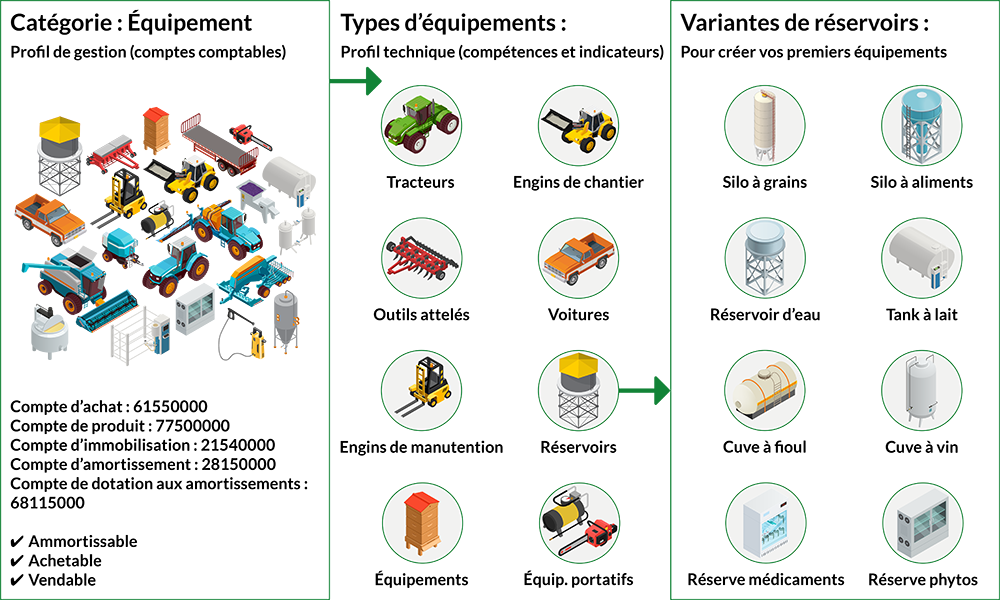
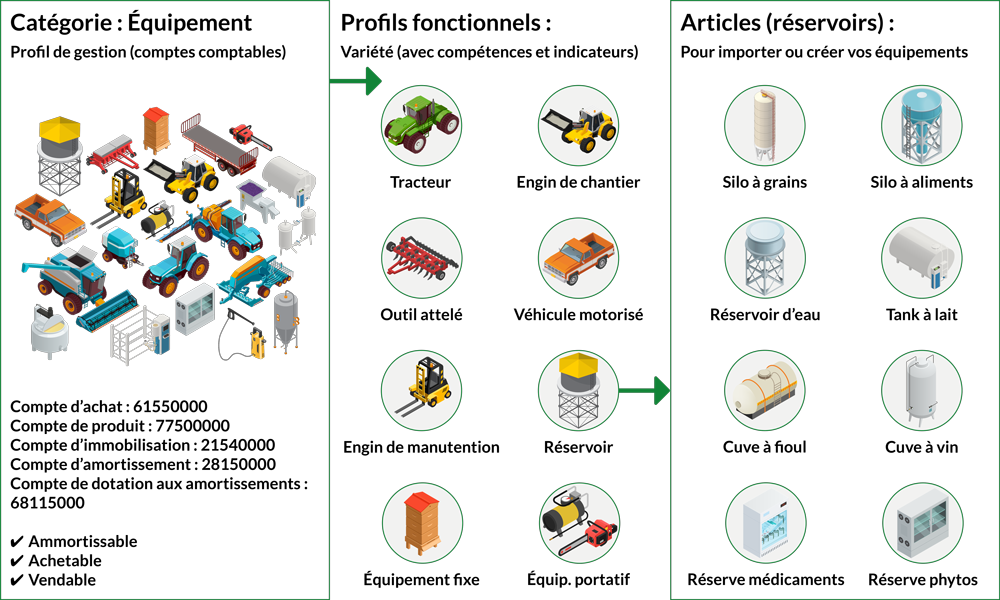
Màj 4.1 (wip)

diff --git a/content/fr/chapitre8.html b/content/fr/chapitre8.html
@@ -198,7 +198,7 @@
                      </div>
                      <ul style="display: block;">
                         <div class="bloc">
-                           <li><a href="#categories" target="_self">Catégories, types et variantes</a></li>
+                           <li><a href="#categories" target="_self">Catégories, profils et articles</a></li>
 						   <li><a href="#conditionnement" target="_self">Unités et conditionnements</a></li>
                            <li><a href="#stocks" target="_self">Gestion des stocks et création de matières</a></li>
                            <li><a href="#expeditions" target="_self">Expéditions, livraisons et facturation</a></li>
@@ -319,12 +319,12 @@
                   <div class="divTableCellMenu2">
                      <form>
                         <select name="ListeUrl" SIZE="1" onChange="ChangeUrl(this.form)" style="width:210px">
-                           <option selected value="">Variantes et produits</option>
-						   <option value="#categories">- Appréhender la notion de variante</option>
-                           <option value="#nelle-variante">- Créer de nouvelles variantes</option>
+                           <option selected value="">Articles et produits</option>
+						   <option value="#categories">- Appréhender la notion d'article</option>
+                           <option value="#nelle-variante">- Créer de nouveaux articles</option>
 						   <option value="#phyto">- Importer des produits phytosanitaires</option>
                            <option value="#article">- Paramétrer de nouveaux articles</option>
-						   <option value="#coop">- Créer une variante pour facture d'apport</option>
+						   <option value="#coop">- Créer un article pour facture d'apport</option>
                         </select>
                      </form>
                   </div>
@@ -334,7 +334,7 @@
                            <option selected value="">Équipements</option>
 						   <option value="#equipements">- Recenser vos machines et outils</option>
                            <option value="#nel-equipement">- Créer un nouvel équipement</option>
-                           <option value="#var-equipt">- Définir une variante d'équipement</option>
+                           <option value="#var-equipt">- Définir un équipement</option>
                         </select>
                      </form>
                   </div>
@@ -401,17 +401,17 @@
                   <option value="#coutusage">- Créer un catalogue des coûts d'usage</option>
 				  <option value="#coutequipier">- Affecter un coût horaire à un équipier</option>
                </optgroup>
-               <optgroup label="Variantes et produits">
-                  <option value="#categories">- Appréhender la notion de variante</option>
-                  <option value="#nelle-variante">- Créer de nouvelles variantes</option>
+               <optgroup label="Articles et produits">
+                  <option value="#categories">- Appréhender la notion d'article</option>
+                  <option value="#nelle-variante">- Créer de nouveaux articles</option>
 				  <option value="#phyto">- Importer des produits phytosanitaires</option>
                   <option value="#article">- Paramétrer de nouveaux articles</option>
-				  <option value="#coop">- Créer une variante pour facture d'apport</option>
+				  <option value="#coop">- Créer un article pour facture d'apport</option>
                </optgroup>
                <optgroup label="Équipements">
                   <option value="#equipements">- Recenser vos machines et outils</option>
                   <option value="#nel-equipement">- Créer un nouvel équipement</option>
-                  <option value="#var-equipt">- Définir une variante d'équipement</option>
+                  <option value="#var-equipt">- Définir un équipement</option>
                </optgroup>
                <optgroup label="Tiers et équipiers">
                   <option value="#contact">- Créer un nouveau contact</option>
@@ -450,18 +450,18 @@
                </div>
                <div class="divTableRow">
                   <div class="divTableCellPDF2">- Créer un catalogue des coûts d'usage</div>
-                  <div class="divTableCellPDF2">- Appréhender la notion de variante</div>
+                  <div class="divTableCellPDF2">- Appréhender la notion d'article</div>
 				  <div class="divTableCellPDF4">- Recenser vos machines et outils</div>
                </div>
                <div class="divTableRow">
                   <div class="divTableCellPDF2">- Affecter un coût horaire à un équipier</div>
-                  <div class="divTableCellPDF2">- Créer de nouvelles variantes</div>
+                  <div class="divTableCellPDF2">- Créer de nouveaux articles</div>
 				  <div class="divTableCellPDF4">- Créer un nouvel équipement</div>
                </div>
                <div class="divTableRow">
 				  <div class="divTableCellPDF5">&nbsp;</div>
                   <div class="divTableCellPDF2">- Importer des produits phytosanitaires</div>
-                  <div class="divTableCellPDF4">- Définir une variante d'équipement</div>
+                  <div class="divTableCellPDF4">- Définir un équipement</div>
                </div>
                <div class="divTableRow">
 				  <div class="divTableCellPDF5">&nbsp;</div>
@@ -470,7 +470,7 @@
                </div>
 			   <div class="divTableRow">
 				  <div class="divTableCellPDF5">&nbsp;</div>
-                  <div class="divTableCellPDF2">- Créer une variante pour facture d'apport</div>
+                  <div class="divTableCellPDF2">- Créer un article pour facture d'apport</div>
                   <div class="divTableCellPDF5">&nbsp;</div>
                </div>
             </div>
@@ -581,11 +581,11 @@
       </div>
       <h6>Guide de prise en main • Stocks, tiers et RH • Notions de base</h6>
       <a class="slice-process" id="categories"></a>
-      <h2 class="texte aerateur">a - Catégories, types et variantes</h2>
+      <h2 class="texte aerateur">a - Catégories, types et articles</h2>
       <p class="texte">Tous les éléments stockés dans <strong>Eky</strong>agri sont associés à une catégorie comptable qui est un profil de gestion utilisé pour enregistrer les écritures en comptabilité.</p>
-      <p class="texte">Ces éléments sont également rattachés à des types &#40;familles&#41; identifiés par un profil technique comme par exemple un service, un équipement, un produit phytosanitaire.</p>
-      <p class="texte">La variante correspond à un article de catalogue appartenant simultanément à une catégorie comptable &#40;profil de gestion&#41; et à un type de produit &#40;profil technique&#41;.</p>
-      <p class="texte">À la création du stock initial ou lors d'un achat, la variante est finalement enregistrée sous la forme d'un produit en stock avec la quantité spécifiée.</p>
+      <p class="texte">Ces éléments sont également rattachés à des profils fonctionnels identifiés par des caractéristiques techniques comme par exemple un service, un équipement, un produit phytosanitaire.</p>
+      <p class="texte">Un article correspond à un élément de catalogue appartenant simultanément à une catégorie comptable &#40;profil de gestion&#41; et à un profil fonctionnel &#40;profil technique&#41;.</p>
+      <p class="texte">À la création du stock initial ou lors d'une réception, l'article est finalement enregistré dans les stocks sous la forme d'un produit associé à un conditionnement avec la quantité spécifiée.</p>
       <div class="affichage-large"></div>
       <div class="affichage-mobile">
          <p align="center">
@@ -599,7 +599,7 @@
             <p align="center" class="aerateur-haut aerateur-bas"><img src="../images/chapitre8/tableau-produits.png" alt="Schéma produits"></p>
          </div>
       </div>
-      <p class="texte">En complément, on peut associer un prix d'achat ou un prix de vente &#40;ainsi qu'un coût d'usage dans le cas d'un équipement&#41; à chaque variante. Ces informations sont alors répertoriées dans des catalogues de prix spécifiques et disponibles pour enregistrer des commandes, des ventes et des interventions.</p>
+      <p class="texte">En complément, on peut associer un prix d'achat ou un prix de vente &#40;ainsi qu'un coût d'usage dans le cas d'un équipement&#41; à chaque article. Ces informations sont alors répertoriées dans des catalogues de prix spécifiques et disponibles pour enregistrer des commandes, des ventes et des interventions.</p>
       <div class="affichage-large"></div>
       <div class="affichage-mobile">
          <p align="center">
@@ -613,12 +613,12 @@
             <p align="center" class="aerateur-haut aerateur-bas"><img src="../images/chapitre8/schema-catalogues.png" class="contour-img" alt="Schéma catalogues"></p>
          </div>
       </div>
-      <p class="texte aerateur-haut">Dans le schéma suivant, parmi les différentes catégories disponibles dans l'application, on a choisi en exemple celle des équipements qui regroupe plusieurs types d'équipements possédant chacun des caractéristiques différentes.</p>
+      <p class="texte aerateur-haut">Dans le schéma suivant, parmi les différentes catégories disponibles dans l'application, on a choisi en exemple celle des équipements qui regroupe plusieurs profils d'équipements possédant chacun des caractéristiques différentes.</p>
       <p class="texte">Les réservoirs sont capables de stocker du grain, des préparations ou des mélanges &#40;une compétence&#41;. Ils sont associés aux indicateurs fixes ou variables "Capacité de stockage massique nominale" et/ou "Capacité de stockage volumique nominale".</p>
-      <p class="texte">Exemple de paramétrage par défaut pour le type de produit dénommé "Silo à aliments" dans l'application&nbsp;:</p>
+      <p class="texte">Exemple de paramétrage par défaut du profil fonctionnel dénommé "Silo à aliments" dans l'application&nbsp;:</p>
       <p align="center" class="marge"><img class="contour-gris" src="../images/chapitre8/competences.png" alt="Compétences type de produit" data-action="zoom" /></p>
       <p align="center" class="marge"><img class="contour-gris" src="../images/chapitre8/indicateurs.png" alt="Indicateurs type de produit" data-action="zoom" /></p>
-      <p class="texte aerateur-bas">Les différentes variantes de réservoirs disponibles vous permettront enfin de créer vos équipements en stock à partir de la liste figurant à droite du schéma.</p>
+      <p class="texte aerateur-bas">Les différentes familles de réservoirs disponibles vous permettront enfin de créer vos équipements en stock à partir de la liste figurant à droite du schéma.</p>
       <div class="affichage-large"></div>
       <div class="affichage-mobile">
          <p align="center">
@@ -639,11 +639,11 @@
             <img src="../images/commun/attention.svg" width="100" alt="Attention"/>
          </div>
          <div class="info-txt">
-            <span class="titre-advice">Nécessité de créer de nouvelles variantes<br /></span>
-            <p class="texte-advice">Dans la majorité des cas, les variantes prédéfinies et disponibles dans l'application doivent répondre à vos attentes pour constituer vos stocks et réaliser la gestion commerciale &#40;achats et ventes&#41;. Cependant, la <strong>création de nouvelles variantes reste incontournable</strong> au regard du niveau de traçabilité que vous souhaitez obtenir, comme par exemple le calcul des <strong>temps de travaux</strong> et des <strong>coûts horaires</strong> estimatifs affectés aux <strong>équipiers</strong> et/ou aux <strong>équipements</strong>.</p>
+            <span class="titre-advice">Nécessité de créer de nouveaux articles<br /></span>
+            <p class="texte-advice">Dans la majorité des cas, les articles prédéfinis et disponibles dans l'application doivent répondre à vos attentes pour constituer vos stocks et réaliser la gestion commerciale &#40;achats et ventes&#41;. Cependant, la <strong>création de nouveaux articles reste incontournable</strong> au regard du niveau de traçabilité que vous souhaitez obtenir, comme par exemple le calcul des <strong>temps de travaux</strong> et des <strong>coûts horaires</strong> estimatifs affectés aux <strong>équipiers</strong> et/ou aux <strong>équipements</strong>.</p>
          </div>
       </div>
-      <p class="texte">Quelques exemples qui doivent vous amener à créer de nouvelles variantes&nbsp;:</p>
+      <p class="texte">Quelques exemples qui doivent vous amener à créer de nouveaux articles&nbsp;:</p>
       <div class="divTableListe marge">
          <div class="divTableBody">
             <div class="divTableRow">
@@ -675,7 +675,7 @@
             </div>
          </div>
       </div>
-      <h3 align="center" class="texte aerateur procedure">1 – Procédure pour afficher une liste de variantes</h3>
+      <h3 align="center" class="texte aerateur procedure">1 – Procédure pour afficher une liste d'articles</h3>
       <p class="texte">
          Le processus suivant vous guide pour mieux comprendre le système de classement utilisé dans l'application.
       </p>
@@ -3701,12 +3701,12 @@
                   <div class="divTableCellMenu2">
                      <form>
                         <select name="ListeUrl" SIZE="1" onChange="ChangeUrl(this.form)" style="width:210px">
-                           <option selected value="">Variantes et produits</option>
-						   <option value="#categories">- Appréhender la notion de variante</option>
-                           <option value="#nelle-variante">- Créer de nouvelles variantes</option>
+                           <option selected value="">Articles et produits</option>
+						   <option value="#categories">- Appréhender la notion d'article</option>
+                           <option value="#nelle-variante">- Créer de nouveaux articles</option>
 						   <option value="#phyto">- Importer des produits phytosanitaires</option>
                            <option value="#article">- Paramétrer de nouveaux articles</option>
-						   <option value="#coop">- Créer une variante pour facture d'apport</option>
+						   <option value="#coop">- Créer un article pour facture d'apport</option>
                         </select>
                      </form>
                   </div>
@@ -3716,7 +3716,7 @@
                            <option selected value="">Équipements</option>
 						   <option value="#equipements">- Recenser vos machines et outils</option>
                            <option value="#nel-equipement">- Créer un nouvel équipement</option>
-                           <option value="#var-equipt">- Définir une variante d'équipement</option>
+                           <option value="#var-equipt">- Définir un équipement</option>
                         </select>
                      </form>
                   </div>

diff --git a/layouts/default.html b/layouts/default.html
@@ -50,7 +50,7 @@
                   <li><a class="drawer-menu-item" href="../chapitre5"><span data-descr="Journaux - Exercices - Synthèses - Immobilisations - TVA - Trésorerie">Comptabilité</span>&nbsp;<i class="far fa-angle-right angle" aria-hidden="true"></i></a></li>
                   <li><a class="drawer-menu-item" href="../chapitre6"><span data-descr="Commandes - Réceptions - Facturation - Décaissements">Achats</span>&nbsp;<i class="far fa-angle-right angle" aria-hidden="true"></i></a></li>
                   <li><a class="drawer-menu-item" href="../chapitre7"><span data-descr="Devis - Expéditions - Livraisons - Encaissements - Remises en banque">Ventes</span>&nbsp;<i class="far fa-angle-right angle" aria-hidden="true"></i></a></li>
-                  <li><a class="drawer-menu-item" href="../chapitre8"><span data-descr="Variantes - Inventaires - Équipements - Contacts - Équipiers - Salaires">Stocks, tiers et RH</span>&nbsp;<i class="far fa-angle-right angle" aria-hidden="true"></i></a></li>
+                  <li><a class="drawer-menu-item" href="../chapitre8"><span data-descr="Articles - Inventaires - Équipements - Contacts - Équipiers - Salaires">Stocks, tiers et RH</span>&nbsp;<i class="far fa-angle-right angle" aria-hidden="true"></i></a></li>
                   <li><a class="drawer-menu-item" href="../chapitre9"><span data-descr="Activités - Assolement - Interventions - IFT - Planification - Coûts - Traçabilité">Production</span>&nbsp;<i class="far fa-angle-right angle" aria-hidden="true"></i></a></li>
                   <li><a class="drawer-menu-item" href="../chapitre10"><span data-descr="Imports de données - Documents - Extractions - Connexions partenaires">Outils</span>&nbsp;<i class="far fa-angle-right angle" aria-hidden="true"></i></a></li>
 				  <li><a class="drawer-menu-item" href="../performance"><span data-descr="Itinéraires culturaux - Budgets - Seuils de commercialisation - Planification">Performance</span>&nbsp;<i class="far fa-angle-right angle" aria-hidden="true"></i></a></li>

diff --git a/content/fr/chapitre1.html b/content/fr/chapitre1.html
@@ -197,7 +197,7 @@
                      </div>
                      <ul style="display: none;">
                         <div class="bloc">
-                           <li><a href="../chapitre8#categories" target="_self">Catégories, types et variantes</a></li>
+                           <li><a href="../chapitre8#categories" target="_self">Catégories, profils et articles</a></li>
 						   <li><a href="../chapitre8#conditionnement" target="_self">Unités et conditionnements</a></li>
                            <li><a href="../chapitre8#stocks" target="_self">Gestion des stocks et création de matières</a></li>
                            <li><a href="../chapitre8#expeditions" target="_self">Expéditions, livraisons et facturation</a></li>

diff --git a/content/fr/chapitre10.html b/content/fr/chapitre10.html
@@ -193,7 +193,7 @@
                      </div>
                      <ul style="display: none;">
                         <div class="bloc">
-                           <li><a href="../chapitre8#categories" target="_self">Catégories, types et variantes</a></li>
+                           <li><a href="../chapitre8#categories" target="_self">Catégories, profils et articles</a></li>
 						   <li><a href="../chapitre8#conditionnement" target="_self">Unités et conditionnements</a></li>
                            <li><a href="../chapitre8#stocks" target="_self">Gestion des stocks et création de matières</a></li>
                            <li><a href="../chapitre8#expeditions" target="_self">Expéditions, livraisons et facturation</a></li>

diff --git a/content/fr/chapitre2.html b/content/fr/chapitre2.html
@@ -193,7 +193,7 @@
                      </div>
                      <ul style="display: none;">
                         <div class="bloc">
-                           <li><a href="../chapitre8#categories" target="_self">Catégories, types et variantes</a></li>
+                           <li><a href="../chapitre8#categories" target="_self">Catégories, profils et articles</a></li>
 						   <li><a href="../chapitre8#conditionnement" target="_self">Unités et conditionnements</a></li>
                            <li><a href="../chapitre8#stocks" target="_self">Gestion des stocks et création de matières</a></li>
                            <li><a href="../chapitre8#expeditions" target="_self">Expéditions, livraisons et facturation</a></li>

diff --git a/content/fr/chapitre3.html b/content/fr/chapitre3.html
@@ -193,7 +193,7 @@
                      </div>
                      <ul style="display: none;">
                         <div class="bloc">
-                           <li><a href="../chapitre8#categories" target="_self">Catégories, types et variantes</a></li>
+                           <li><a href="../chapitre8#categories" target="_self">Catégories, profils et articles</a></li>
 						   <li><a href="../chapitre8#conditionnement" target="_self">Unités et conditionnements</a></li>
                            <li><a href="../chapitre8#stocks" target="_self">Gestion des stocks et création de matières</a></li>
                            <li><a href="../chapitre8#expeditions" target="_self">Expéditions, livraisons et facturation</a></li>

diff --git a/content/fr/chapitre4.html b/content/fr/chapitre4.html
@@ -197,7 +197,7 @@
                      </div>
                      <ul style="display: none;">
                         <div class="bloc">
-                           <li><a href="../chapitre8#categories" target="_self">Catégories, types et variantes</a></li>
+                           <li><a href="../chapitre8#categories" target="_self">Catégories, profils et articles</a></li>
 						   <li><a href="../chapitre8#conditionnement" target="_self">Unités et conditionnements</a></li>
                            <li><a href="../chapitre8#stocks" target="_self">Gestion des stocks et création de matières</a></li>
                            <li><a href="../chapitre8#expeditions" target="_self">Expéditions, livraisons et facturation</a></li>

diff --git a/content/fr/chapitre5.html b/content/fr/chapitre5.html
@@ -198,7 +198,7 @@
                      </div>
                      <ul style="display: none;">
                         <div class="bloc">
-                           <li><a href="../chapitre8#categories" target="_self">Catégories, types et variantes</a></li>
+                           <li><a href="../chapitre8#categories" target="_self">Catégories, profils et articles</a></li>
 						   <li><a href="../chapitre8#conditionnement" target="_self">Unités et conditionnements</a></li>
                            <li><a href="../chapitre8#stocks" target="_self">Gestion des stocks et création de matières</a></li>
                            <li><a href="../chapitre8#expeditions" target="_self">Expéditions, livraisons et facturation</a></li>

diff --git a/content/fr/chapitre6.html b/content/fr/chapitre6.html
@@ -193,7 +193,7 @@
                      </div>
                      <ul style="display: none;">
                         <div class="bloc">
-                           <li><a href="../chapitre8#categories" target="_self">Catégories, types et variantes</a></li>
+                           <li><a href="../chapitre8#categories" target="_self">Catégories, profils et articles</a></li>
 						   <li><a href="../chapitre8#conditionnement" target="_self">Unités et conditionnements</a></li>
                            <li><a href="../chapitre8#stocks" target="_self">Gestion des stocks et création de matières</a></li>
                            <li><a href="../chapitre8#expeditions" target="_self">Expéditions, livraisons et facturation</a></li>

diff --git a/content/fr/chapitre7.html b/content/fr/chapitre7.html
@@ -193,7 +193,7 @@
                      </div>
                      <ul style="display: none;">
                         <div class="bloc">
-                           <li><a href="../chapitre8#categories" target="_self">Catégories, types et variantes</a></li>
+                           <li><a href="../chapitre8#categories" target="_self">Catégories, profils et articles</a></li>
 						   <li><a href="../chapitre8#conditionnement" target="_self">Unités et conditionnements</a></li>
                            <li><a href="../chapitre8#stocks" target="_self">Gestion des stocks et création de matières</a></li>
                            <li><a href="../chapitre8#expeditions" target="_self">Expéditions, livraisons et facturation</a></li>

diff --git a/content/fr/chapitre9.html b/content/fr/chapitre9.html
@@ -192,7 +192,7 @@
                      </div>
                      <ul style="display: none;">
                         <div class="bloc">
-                           <li><a href="../chapitre8#categories" target="_self">Catégories, types et variantes</a></li>
+                           <li><a href="../chapitre8#categories" target="_self">Catégories, profils et articles</a></li>
 						   <li><a href="../chapitre8#conditionnement" target="_self">Unités et conditionnements</a></li>
                            <li><a href="../chapitre8#stocks" target="_self">Gestion des stocks et création de matières</a></li>
                            <li><a href="../chapitre8#expeditions" target="_self">Expéditions, livraisons et facturation</a></li>

diff --git a/content/fr/demarrage.html b/content/fr/demarrage.html
@@ -273,7 +273,7 @@
                      </div>
                      <ul style="display: none;">
                         <div class="bloc">
-                           <li><a href="../chapitre8#categories" target="_self">Catégories, types et variantes</a></li>
+                           <li><a href="../chapitre8#categories" target="_self">Catégories, profils et articles</a></li>
 						   <li><a href="../chapitre8#conditionnement" target="_self">Unités et conditionnements</a></li>
                            <li><a href="../chapitre8#stocks" target="_self">Gestion des stocks et création de matières</a></li>
                            <li><a href="../chapitre8#expeditions" target="_self">Expéditions, livraisons et facturation</a></li>
